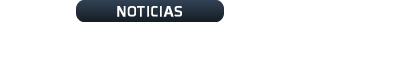
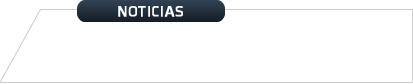
Fixing Vehicles Search

diff --git a/sites/all/themes/basic/css/yaquemotors.css b/sites/all/themes/basic/css/yaquemotors.css
@@ -110,6 +110,8 @@ root {
     float: left;
 }
 
+
+
 #vehicles-agency-search-results-title
 {
         background-image: url("/sites/default/files/images/vehiclesAgency/resultsHeader.png");
@@ -119,6 +121,12 @@ root {
         width: 418px;
         position: relative;
         text-transform: uppercase;
+}
+
+#vehicles-agency-search-results-title.all-brands
+{
+            background-image: url("/sites/default/files/images/vehiclesAgency/allVehicles.png");
+            width: 610px;
 }
 
 
@@ -1156,12 +1164,12 @@ li a.active
 {
     background-image: url('/sites/default/files/images/news/news.png');
     float: left;
-    height: 52px;
+    height: 54px;
     left: 545px;
     padding-top: 30px;
     position: absolute;
     top:766px;        
-    width: 411px;
+    width: 413px;
 }
 .news
 {
